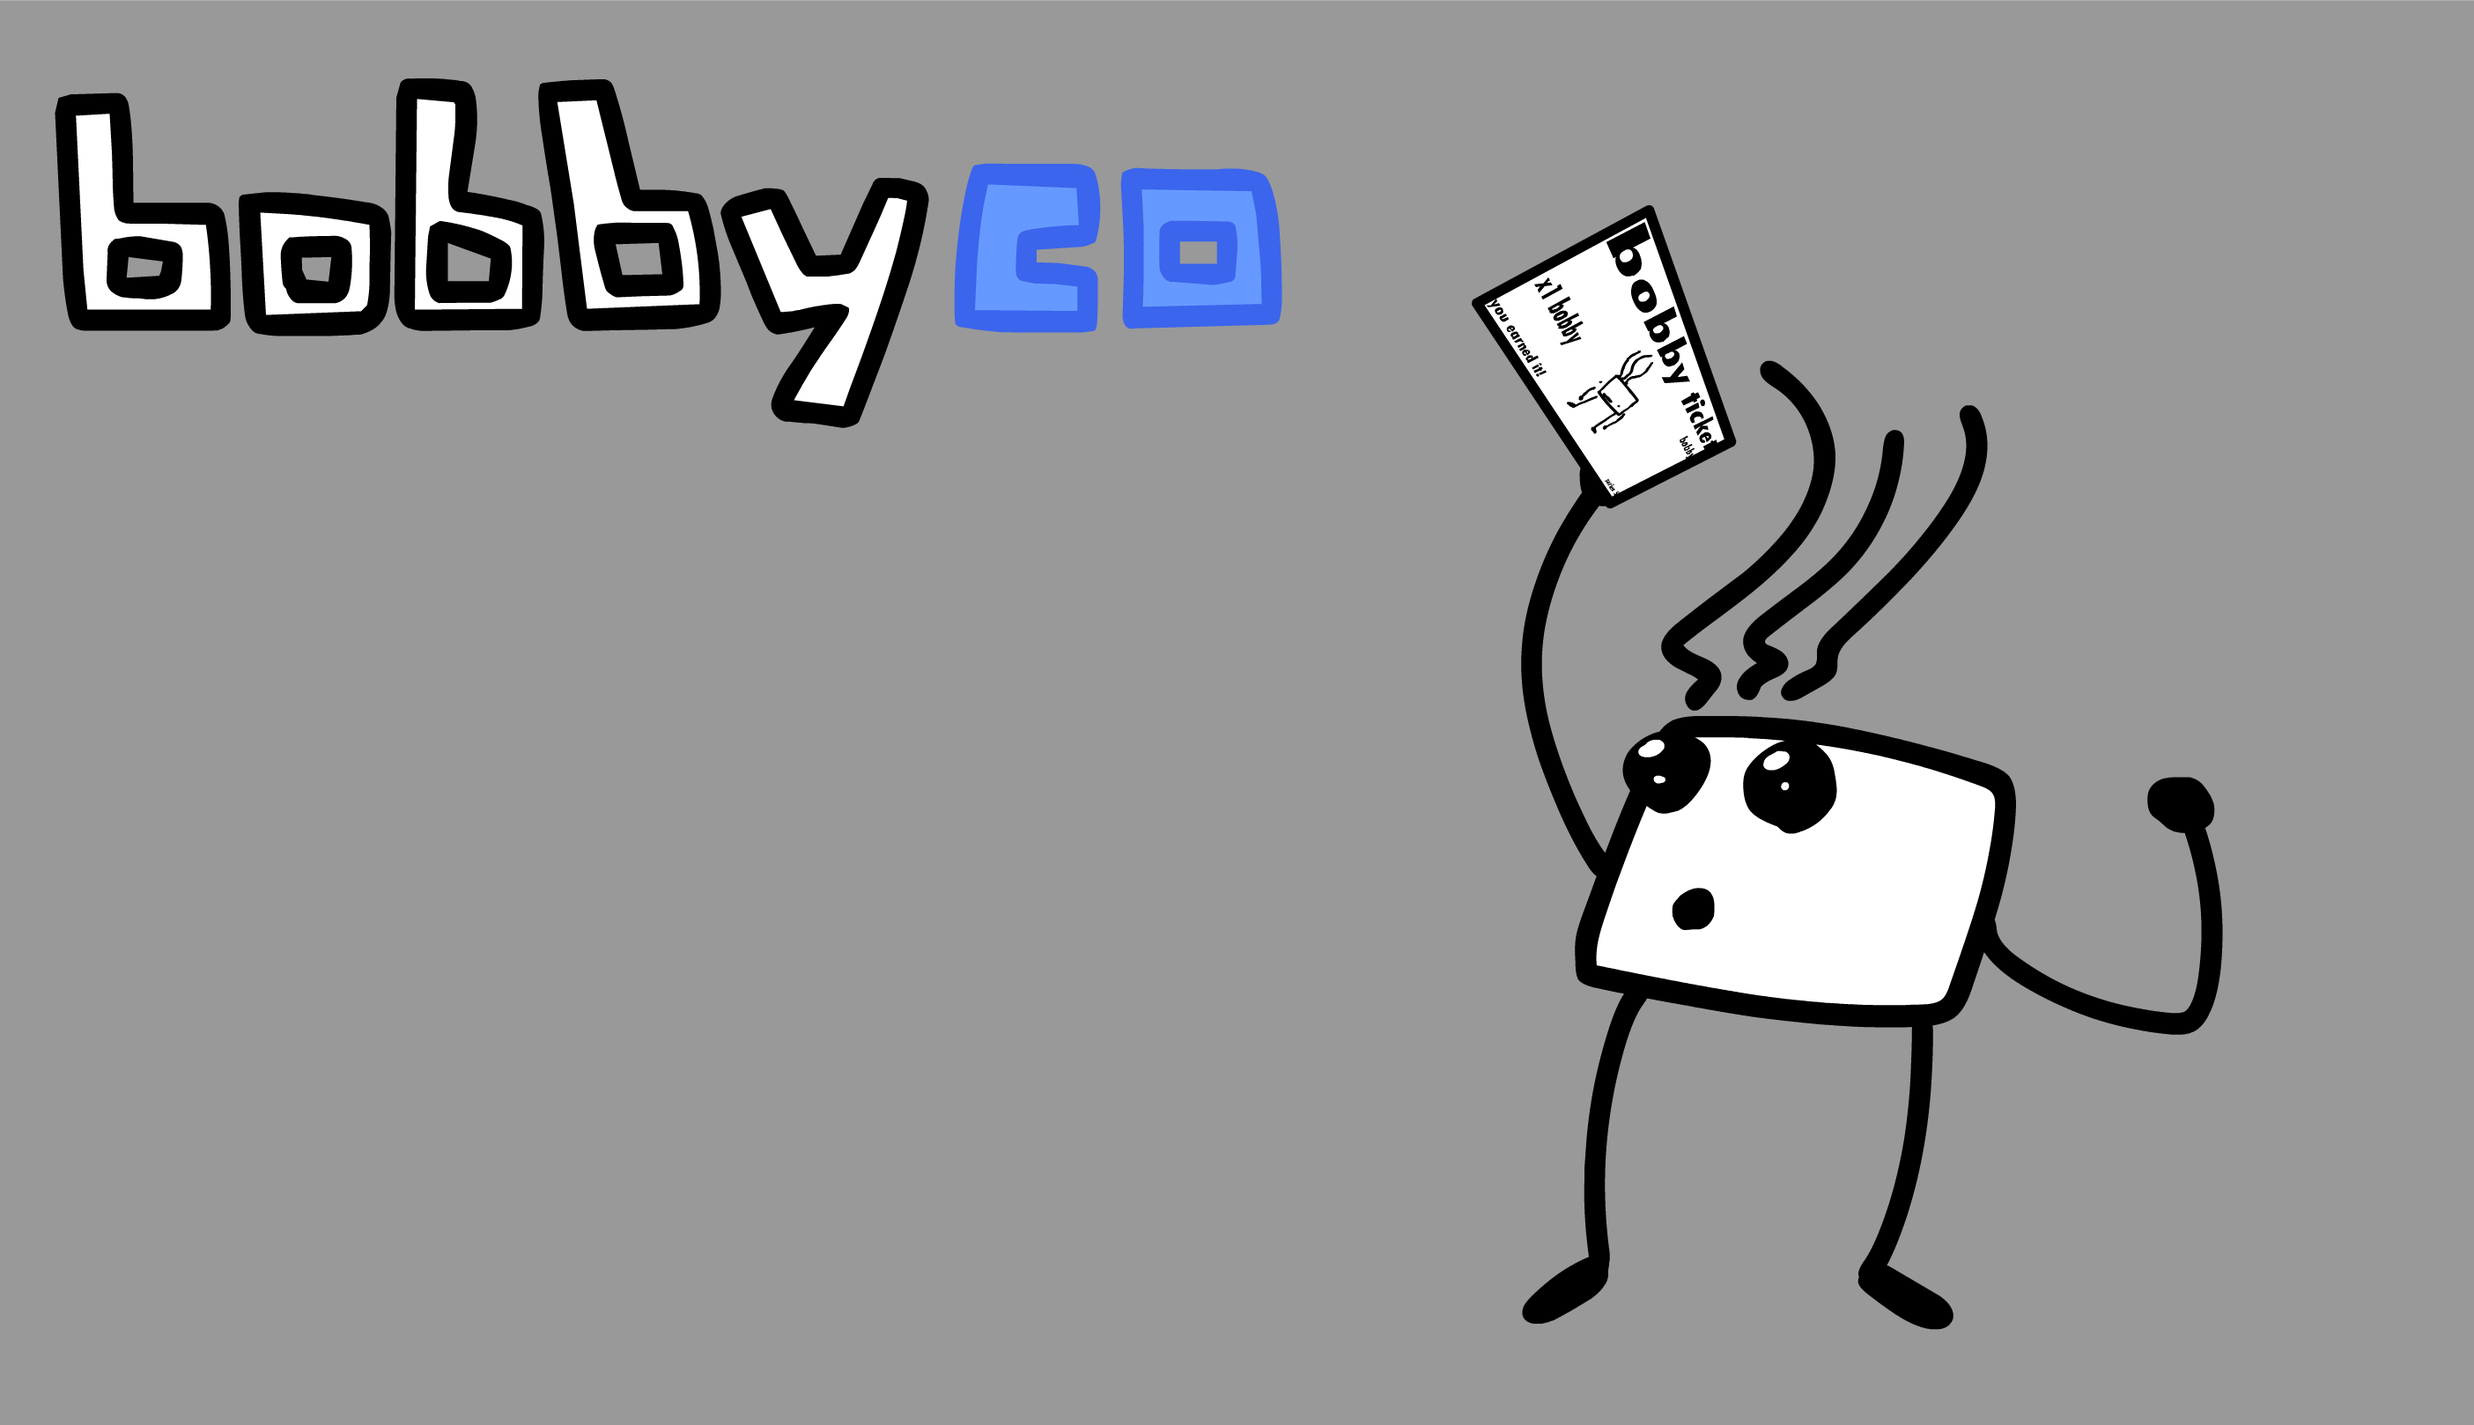
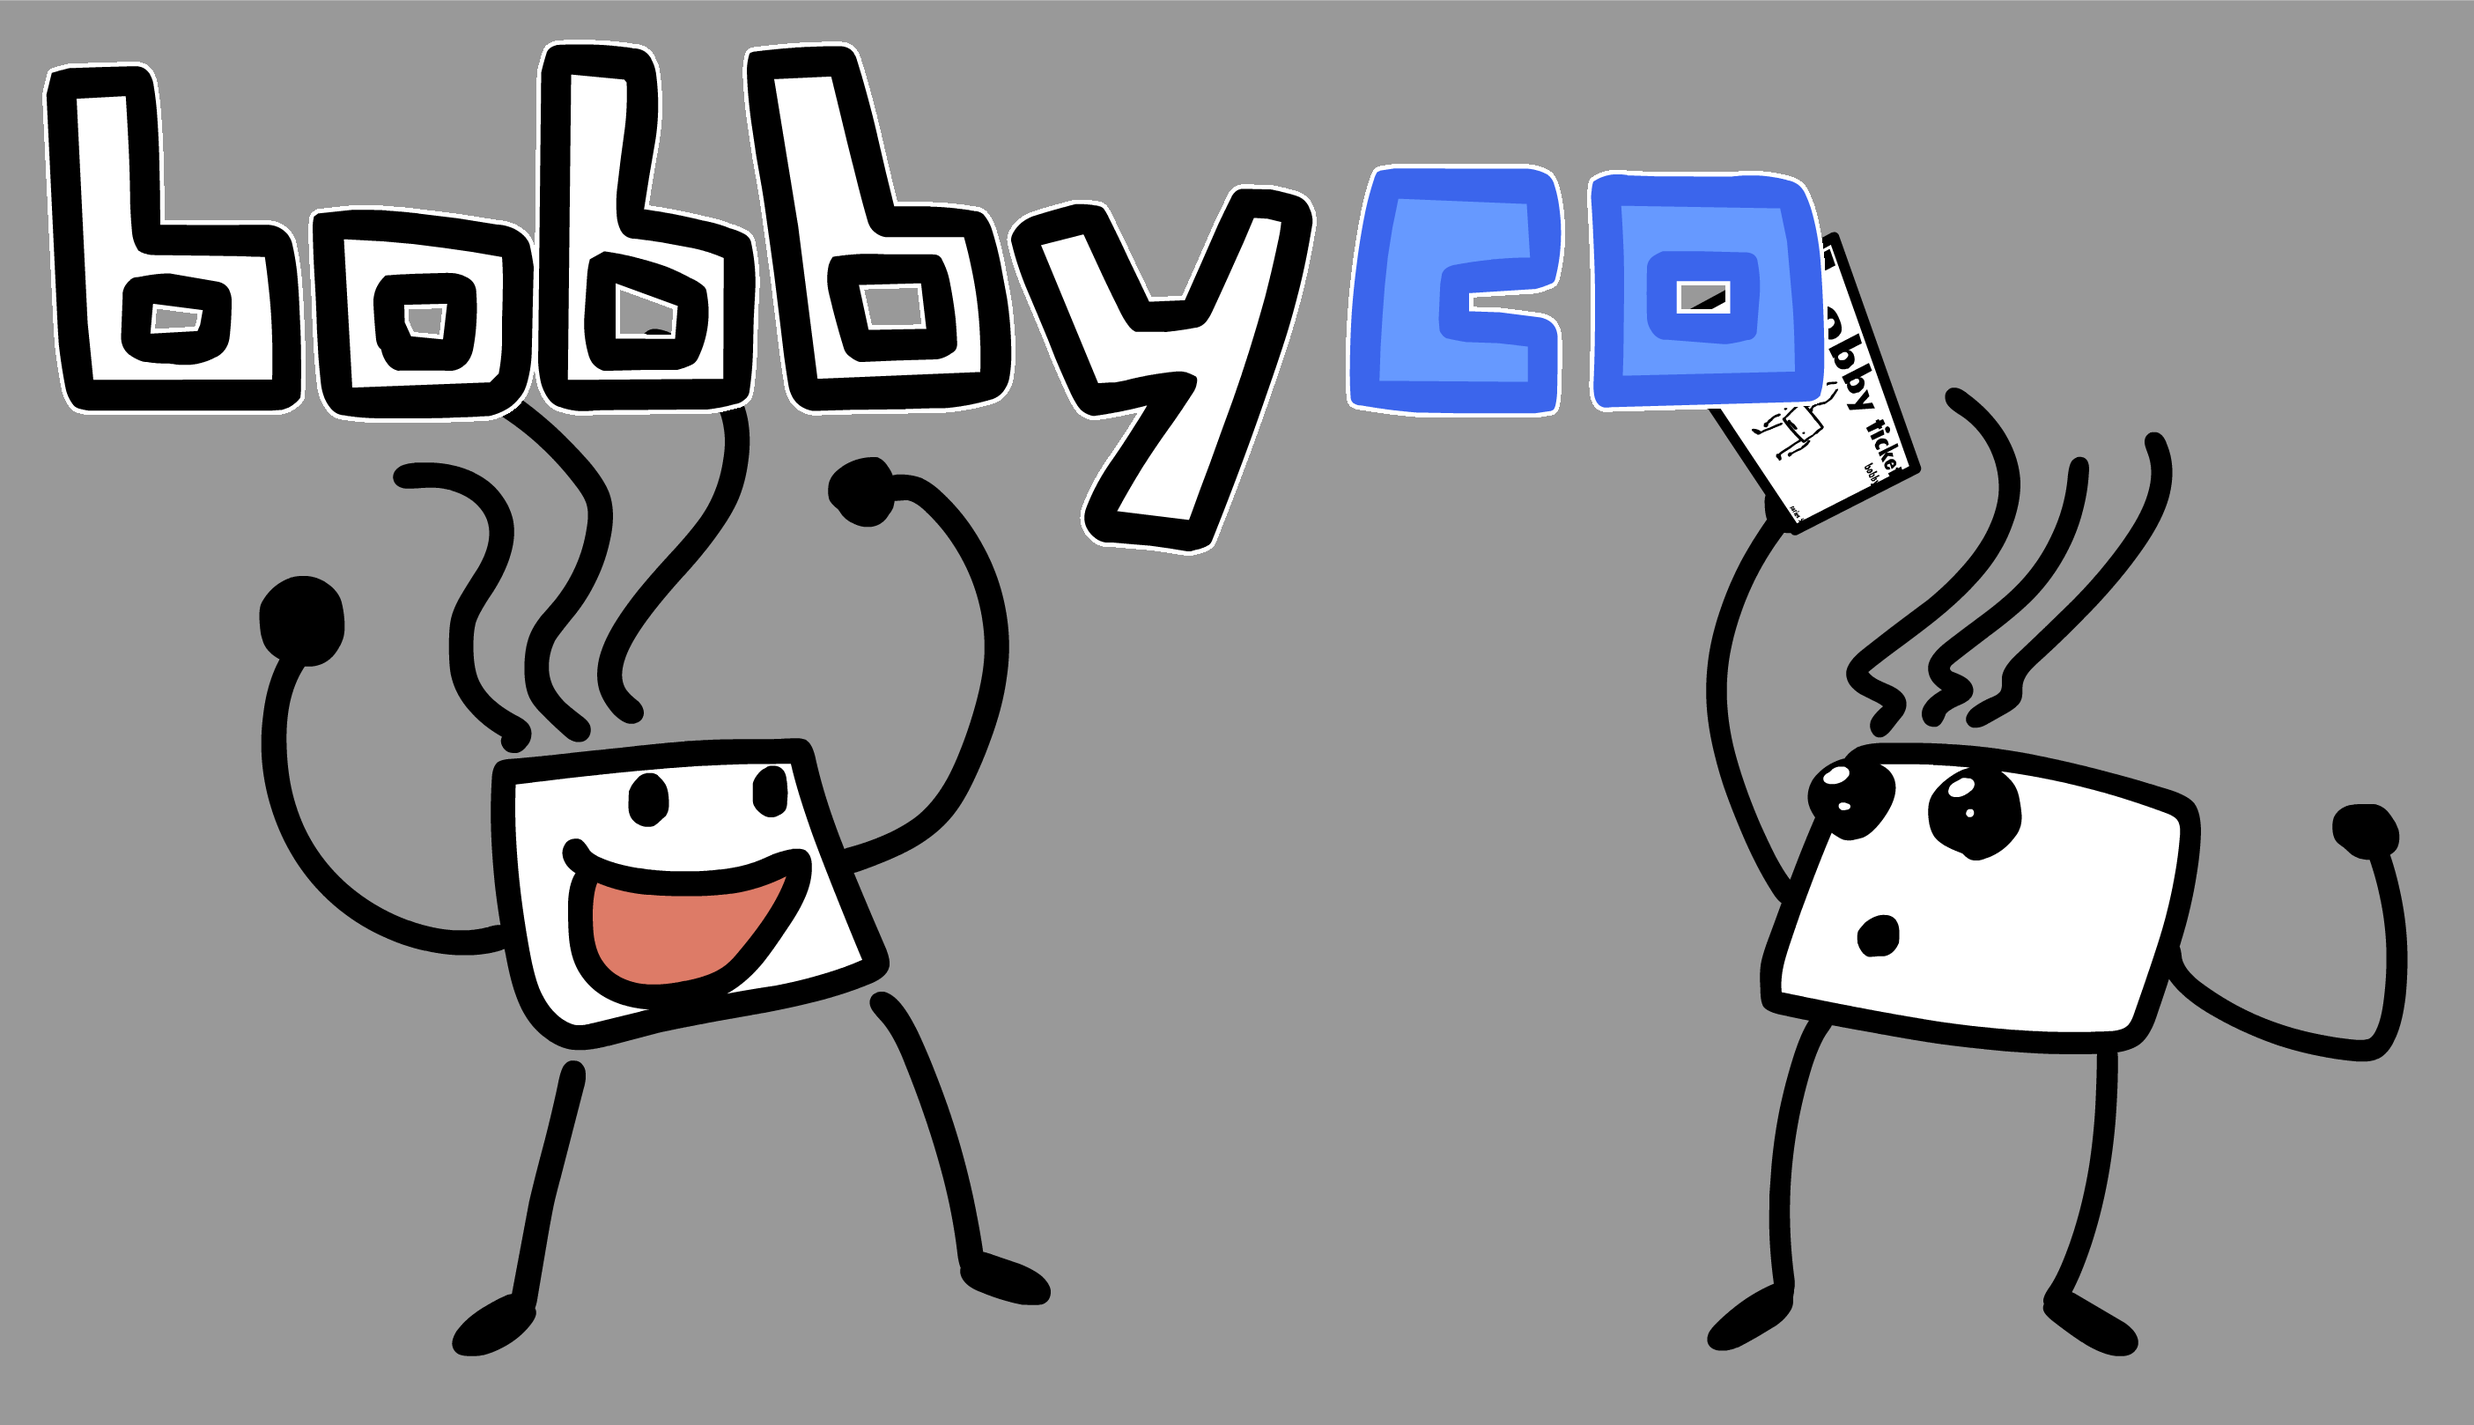
made a better navbar system, added news tab

Changed region(s): [[0.0, 0.0309, 0.9911, 0.958]]

diff --git a/util.js b/util.js
@@ -13,3 +13,74 @@ function subpage(dir)
         window.location.href = window.location.origin + dir;
     }
 }
+
+function bar()
+{
+    var container = document.getElementsByClassName("logo")[0];
+
+    var div = document.createElement("div");
+    div.class = "logo";
+    div.id = "slides";
+
+    var bobbyco = document.createElement("img");
+    bobbyco.style = "vertical-align: up;";
+    bobbyco.width = 300;
+    bobbyco.src = "bobbyco.png";
+    bobbyco.onerror = function()
+    {
+        this.src = "../img/shared/bobbyco.png";
+    }
+    div.appendChild(bobbyco);
+
+    //? reference <img style="padding-left: 50px; vertical-align: bottom;" src="img/shared/bobby.png" width="75px">
+    // var bobby = document.createElement("img");
+    // bobby.style = "padding-left: 50px; vertical-align: bottom;";
+    // bobby.width = 75;
+    // bobby.src = "img/shared/bobby.png";
+    // div.appendChild(bobby);
+
+    //todo   reference for the rest:
+    ////(only using these prefixes for the "Better Comments" vscode extension)
+    //! Home
+    //!  <img style="padding-left: 50px; vertical-align: top;" src="img/shared/home.png" width="75px" onclick="subpage('')">
+    //!  <span style="color: #000;" onclick="subpage('')"><coolfont><b>home</b></coolfont></span>
+  
+    //? Checklist
+    //?  <img style="padding-left: 50px; vertical-align: top;" src="img/shared/checklist.png" width="75px" onclick="subpage('checklist')">
+    //?  <span style="color: #000;" onclick="subpage('checklist')"><coolfont><b>checklist</b></coolfont></span>
+  
+    //* Contact
+    //*  <img style="padding-left: 50px; vertical-align: bottom;" src="img/shared/mail.png" width="100px" onclick="subpage('contact')">
+    //*  <span style="color: #000;" onclick="subpage('contact')"><coolfont><b>contact</b></coolfont></span>
+    
+    div.appendChild(createBarOption("home","",65,"home page"));
+    div.appendChild(createBarOption("checklist","checklist/checklist.html",75,"checklist page"));
+    div.appendChild(createBarOption("mail","contact/contact.html",100,"contact info"));
+    div.appendChild(createBarOption("news","news/news.html",100,"bobbyco news"));
+
+    container.appendChild(div);
+}
+
+function createBarOption(img,page,width,tooltip,indexName)
+{
+    var option = document.createElement("img");
+    option.style = "padding-left: 50px; vertical-align: top;";
+    option.width = width;
+    option.src = "../img/shared/"+ img +".png";
+    option.dataset.page = page;
+    option.dataset.w = width;
+    option.title = tooltip;
+    option.onmouseover = function()
+    {
+        this.width = this.dataset.w*1.2;
+    }
+    option.onmouseleave = function()
+    {
+        this.width = this.dataset.w;
+    }
+    option.onclick = function()
+    {
+        subpage(this.dataset.page);
+    }
+    return option;
+}

diff --git a/news/news.html b/news/news.html
@@ -1,0 +1,53 @@
+<!DOCTYPE html>
+<html>
+  <script src="https://cdnjs.cloudflare.com/ajax/libs/p5.js/1.10.0/p5.js"></script>
+  <script src="../util.js"></script>
+  <head>
+    <!-- some embed stuff -->
+    <meta property="og:title" content="the bobby ticket website">
+    <meta property="og:description" content="a website designed for you ticket collectors out there.">
+    <meta property="og:image" content="https://swiftrasin.github.io/bobbytickets.info/img/shared/embed.png">
+    <meta property="og:url" content="https://swiftrasin.github.io/bobbytickets.info/">
+    <meta property="og:type" content="website">
+    <!-- some embed stuff -->
+
+
+    <title >the bobby ticket contact info</title>
+    <link rel="stylesheet" href="../checklist/style.css">
+    <link rel="stylesheet" href="style.css">
+
+    <div class="logo" id="slides"></div>
+
+    <script>bar()</script>
+
+    <!-- <button onclick="showTickets(1)"><coolfont>series 1</coolfont></button>
+    <button onclick="showTickets(2)"><coolfont>series 2</coolfont></button>
+    <button onclick="showTickets(3)"><coolfont>series 3</coolfont></button>
+    <button onclick="showTickets('4a')"><coolfont>series 4a</coolfont></button>
+    <button onclick="showTickets('4b')"><coolfont>series 4b</coolfont></button>
+    <button onclick="showTickets('5a')"><coolfont>series 5a</coolfont></button> -->
+  </head>
+
+    <div class="slides">
+
+        <img src="../img/shared/bobbyco_news.png" width="1000px"/>
+        <div/>
+        <div id="newsIssue1" style="padding-top: 50px;scale: 1.25; padding-left:250px;">
+            <img src="../img/shared/news/megaphone.png" width="200px"/>
+            <span style="padding-left: 50px;vertical-align:top;" class="slides"><coolfont style="font-size: 50%; color: #6c6c6c;"></coolfont><coolfont>issue #1</coolfont></span>
+            <div/>
+            <span style="padding-left: 50px;vertical-align:top;" class="slides"><coolfont style="font-size: 50%; color: #6c6c6c;"></coolfont><coolfont><b>SERIES 5b HIATUS</b> (November 27th, 2024)</coolfont></span>
+            <p style="padding-left: 75px"><coolfont>
+                Due to the holidays coming up, <b>series 5b</b> will not release until January.
+                <br>
+                However, <b>series s1</b>, aka: <b>Seasonal Series 1</b>, will release late December.
+                <br>
+                <br>
+                We hope that you <b>bobby ticket</b> fans have a great holiday break!
+                <br>
+                <img src="../img/shared/news/agreement.png" width="200px"/>
+            </coolfont></p>
+        </div>
+            
+    </div>
+</html>

diff --git a/contact/contact.html b/contact/contact.html
@@ -14,23 +14,10 @@
 
     <title >the bobby ticket contact info</title>
     <link rel="stylesheet" href="../checklist/style.css">
-    <div class="logo" id="slides">
-      <img style="vertical-align: bottom;" src="../img/shared/bobbyco.png" width="200px">
-  
-      <img style="padding-left: 50px; vertical-align: bottom;" src="../img/shared/bobby.png" width="75px">
-  
-      <!-- Home -->
-      <img style="padding-left: 50px; vertical-align: top;" src="../img/shared/home.png" width="75px" onclick="subpage('')">
-      <span style="color: #000;" onclick="subpage('')"><coolfont><b>home</b></coolfont></span>
-  
-      <!-- Checklist -->
-      <img style="padding-left: 50px; vertical-align: top;" src="../img/shared/checklist.png" width="75px" onclick="subpage('checklist')">
-      <span style="color: #000;" onclick="subpage('checklist')"><coolfont><b>checklist</b></coolfont></span>
-  
-      <!-- Contact -->
-      <img style="padding-left: 50px; vertical-align: bottom;" src="../img/shared/mail.png" width="100px" onclick="subpage('contact')">
-      <span style="color: #000;" onclick="subpage('contact')"><coolfont><b>contact</b></coolfont></span>
-    </div>
+
+    <div class="logo" id="slides"></div>
+
+    <script>bar()</script>
 
     <!-- <button onclick="showTickets(1)"><coolfont>series 1</coolfont></button>
     <button onclick="showTickets(2)"><coolfont>series 2</coolfont></button>
@@ -43,7 +30,7 @@
   <div class="slides">
 
     <h1 class="slides" id="logopadding"><coolfont style="font-size: 50%; color: #6c6c6c"></coolfont><coolfont>the <b>bobbyco</b> contact info</coolfont></h1>
-    <div style="padding-top: 50px; color: #6c6c6c" class="slides" id="logopadding"><coolfont>contact us! <u id="" onclick="subpage('checklist')">bobbyco.official@gmail.com</u>.</coolfont></div>
+    <div style="padding-top: 50px; color: #6c6c6c" class="slides" id="logopadding"><coolfont>contact us! <u id="">bobbyco.official@gmail.com</u>.</coolfont></div>
 
     <!-- <coolfont style="padding-top: 500px; padding-left: 50px; color: #ffffff"> <b>Contact Us: bobbyco.official@gmail.com</b> </coolfont> -->
     <!-- <div></div> -->

diff --git a/checklist/main.js b/checklist/main.js
@@ -77,7 +77,7 @@ var bobby_tickets = {
         "DRAGGED IN": makeTicket("DRAGGED IN", "4a", "DRAGGED IN", 12, true, 5),
         "3D BOBBY": makeTicket("3D BOBBY", "4a", "3D BOBBY", 12, true, 5),
         "menace bobby": makeTicket("menace bobby", "4a", "menace bobby", 24, true, 2),
-        "tekcit ybbob": makeTicket("tekcit ybbob", "4a", "tekcit ybbob", 24, true, 1),
+        "reverse bobby": makeTicket("reverse bobby", "4a", "tekcit ybbob", 24, true, 1),
         "OBSERVED": makeTicket("OBSERVED", "4a", "OBSERVED", 20, true, 3),
         "chunky bobby": makeTicket("chunky bobby", "4a", "chunky bobby", 24, true, 2),
         "traumatized bobby": makeTicket("traumatized bobby", "4a", "traumatized bobby", 24, true, 2),
@@ -297,7 +297,7 @@ function showTickets(series, clear = true, showSeries = false)
         if (tickets[i] == "available")
             continue;
 
-        var ticket = document.createElement("div")
+        var ticket = document.createElement("div");
         ticket.className = "ticket";
 
         var series_data = bobby_tickets[("series"+series)];
@@ -343,7 +343,7 @@ function showTickets(series, clear = true, showSeries = false)
         available.className = "padded";
         available.textContent = (trueA ? "available" : "not available");
         available.id = "available";
-        available.title = "* is this ticket still available?"
+        available.title = "* is this ticket still available?";
         ticket.appendChild(available);
 
         if (showSeries) {
@@ -351,7 +351,7 @@ function showTickets(series, clear = true, showSeries = false)
             seriesText.className = "padded";
             seriesText.textContent = "series: " + series;
             seriesText.id = "series";
-            seriesText.title = "* what series this ticket is from?"
+            seriesText.title = "* what series this ticket is from?";
             ticket.appendChild(seriesText);
         }
         

diff --git a/checklist/checklist.html b/checklist/checklist.html
@@ -15,23 +15,9 @@
 
     <title >the bobby ticket checklist</title>
     <link rel="stylesheet" href="style.css">
-    <div class="logo" id="slides">
-      <img style="vertical-align: bottom;" src="../img/shared/bobbyco.png" width="200px">
-  
-      <img style="padding-left: 50px; vertical-align: bottom;" src="../img/shared/bobby.png" width="75px">
-  
-      <!-- Home -->
-      <img style="padding-left: 50px; vertical-align: top;" src="../img/shared/home.png" width="75px" onclick="subpage('')">
-      <span style="color: #000;" onclick="subpage('')"><coolfont><b>home</b></coolfont></span>
-  
-      <!-- Checklist -->
-      <img style="padding-left: 50px; vertical-align: top;" src="../img/shared/checklist.png" width="75px" onclick="subpage('checklist')">
-      <span style="color: #000;" onclick="subpage('checklist')"><coolfont><b>checklist</b></coolfont></span>
-  
-      <!-- Contact -->
-      <img style="padding-left: 50px; vertical-align: bottom;" src="../img/shared/mail.png" width="100px" onclick="subpage('contact')">
-      <span style="color: #000;" onclick="subpage('contact')"><coolfont><b>contact</b></coolfont></span>
-    </div>
+    <div class="logo" id="slides"></div>
+
+    <script>bar()</script>
     <h1 id="logopadding" class="slides"><coolfont>the <b>bobby ticket</b> checklist</coolfont></h1>
     <!-- <p1><coolfont>this is where you can check the status of bobby tickets!</coolfont></p1> -->
     <div></div>

diff --git a/index.html b/index.html
@@ -14,23 +14,28 @@
 
     <title >the bobby ticket website</title>
     <link rel="stylesheet" href="style.css">
-    <div class="logo" id="slides">
+
+    <div class="logo" id="slides"></div>
+
+    <script>bar()</script>
+
+    <!-- <div class="logo" id="slides">
       <img style="vertical-align: bottom;" src="img/shared/bobbyco.png" width="200px">
   
       <img style="padding-left: 50px; vertical-align: bottom;" src="img/shared/bobby.png" width="75px">
   
-      <!-- Home -->
+      Home
       <img style="padding-left: 50px; vertical-align: top;" src="img/shared/home.png" width="75px" onclick="subpage('')">
       <span style="color: #000;" onclick="subpage('')"><coolfont><b>home</b></coolfont></span>
   
-      <!-- Checklist -->
+      Checklist
       <img style="padding-left: 50px; vertical-align: top;" src="img/shared/checklist.png" width="75px" onclick="subpage('checklist')">
       <span style="color: #000;" onclick="subpage('checklist')"><coolfont><b>checklist</b></coolfont></span>
   
-      <!-- Contact -->
+      Contact
       <img style="padding-left: 50px; vertical-align: bottom;" src="img/shared/mail.png" width="100px" onclick="subpage('contact')">
       <span style="color: #000;" onclick="subpage('contact')"><coolfont><b>contact</b></coolfont></span>
-    </div>
+    </div> -->
 
 
 

diff --git a/news/style.css b/news/style.css
@@ -1,0 +1,14 @@
+.logo {
+    background-color: #fff67e;
+    padding-top: 10px;
+    padding-left: 10px;
+    padding-right: 10px;
+    padding-bottom: 3px;
+    
+    /* border-top-right-radius: 12px; */
+    /* border-bottom-right-radius: 12px; */
+    /* border-top: solid #000; */
+    border-bottom: solid #000;
+    border-width: 3px;
+    border-color: #fbcc6d;
+  }

diff --git a/checklist/style.css b/checklist/style.css
@@ -73,6 +73,13 @@ h1 {
   }
 }
 
+#subpage {
+  scale: 100%
+}
+#subpage:hover {
+  scale: 110%
+}
+
 #slides {
   animation-timing-function: cubic-bezier(0, 1, 0 ,1);
   animation: slide-in;

diff --git a/style.css b/style.css
@@ -15,10 +15,10 @@ h1 {
 }
 
 #subpage {
-  
+  scale: 100%
 }
 #subpage:hover {
-
+  scale: 110%
 }
 
 @keyframes slide-in {
